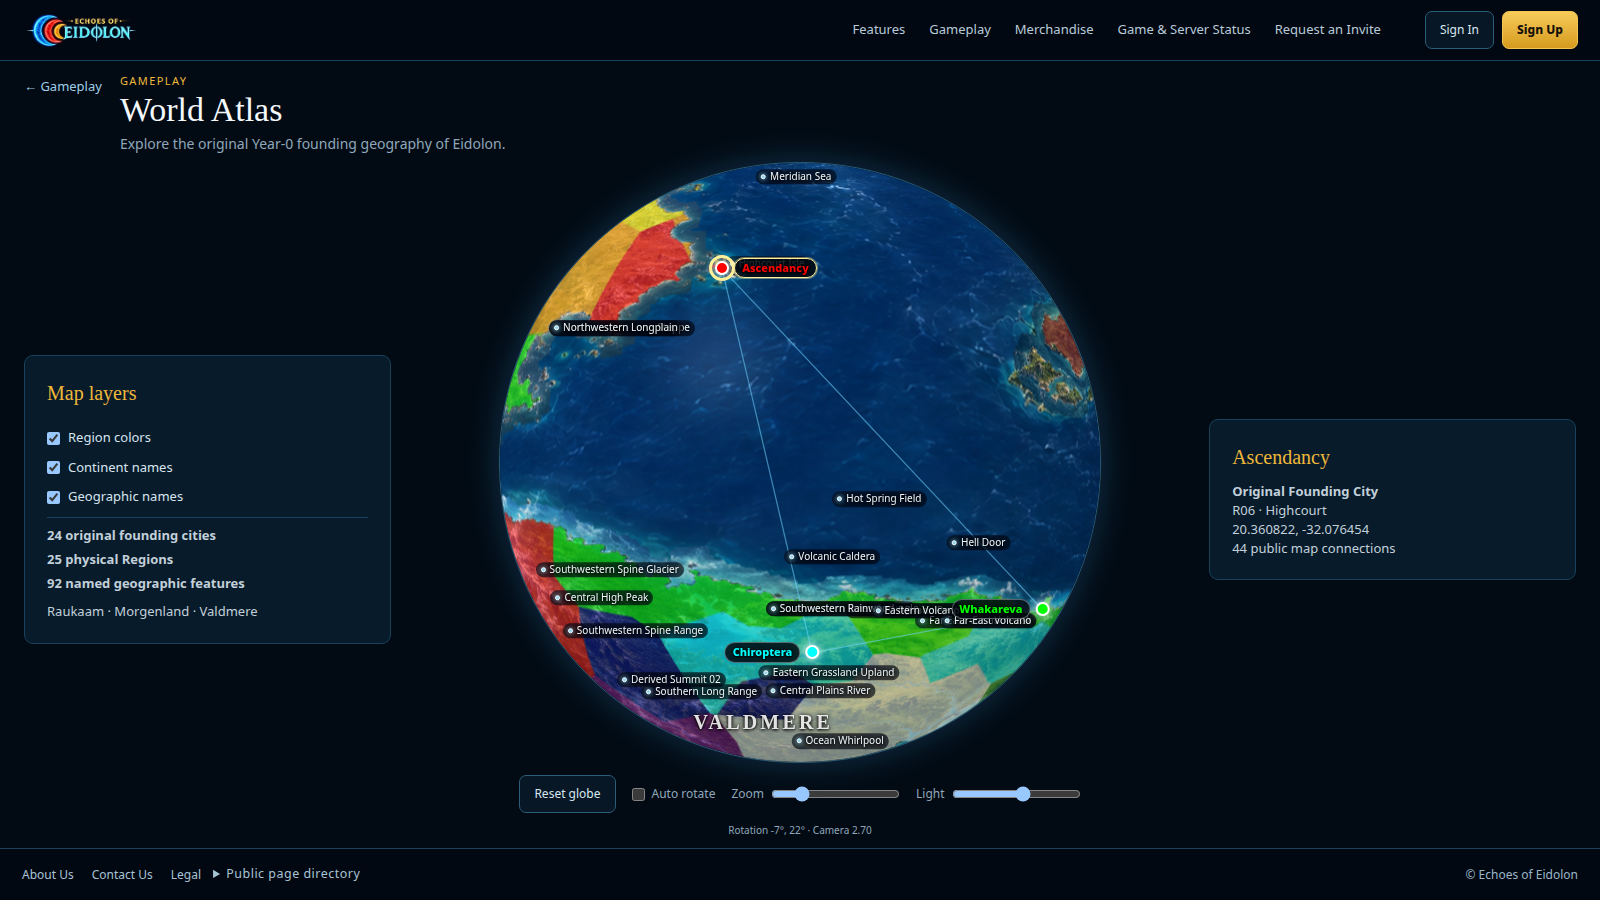
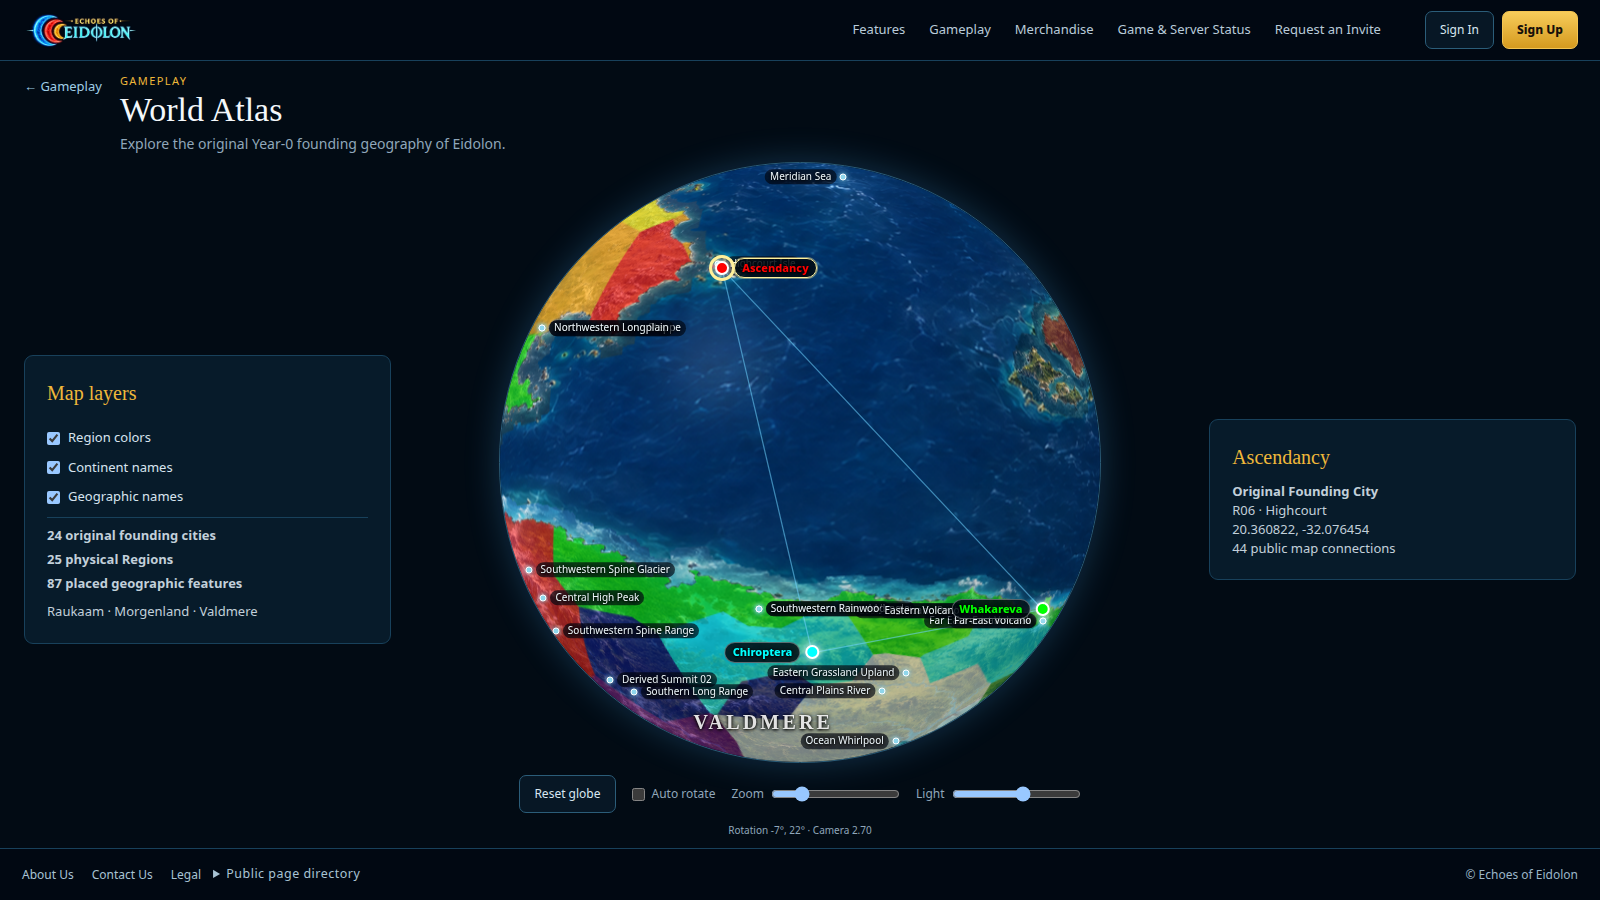
fix(atlas): correct geographic label placement
Release-Note: Geographic Atlas labels now point to their exact map coordinates, while contradicted placements remain hidden until approved.

Release-Audience: PLAYERS

diff --git a/apps/web/tests/e2e/public-world-atlas.spec.ts b/apps/web/tests/e2e/public-world-atlas.spec.ts
@@ -20,7 +20,8 @@ test("public World Atlas renders the 24 Year-0 founding cities on 25 colored Reg
   expect(projection.foundingCities).toHaveLength(24);
   expect(projection.regions).toContainEqual({ color: "#228B22", name: "Innerwood", regionId: "R10" });
   expect(projection.continents).toHaveLength(3);
-  expect(projection.geographicPoints).toHaveLength(92);
+  expect(projection.geographicPoints).toHaveLength(87);
+  expect(projection.geographicPoints.some(({ name }: { name: string }) => name === "Heavenfall")).toBe(false);
   expect(projection).not.toHaveProperty("pointsOfInterest");
 
   const regionColors = page.getByRole("checkbox", { name: "Region colors" });
@@ -30,7 +31,7 @@ test("public World Atlas renders the 24 Year-0 founding cities on 25 colored Reg
   await expect(continentNames).toBeChecked();
   await expect(geographicNames).toBeChecked();
   await expect(page.locator("[data-atlas-continent-label]")).toHaveCount(3);
-  await expect(page.locator("[data-atlas-geographic-point]")).toHaveCount(92);
+  await expect(page.locator("[data-atlas-geographic-point]")).toHaveCount(87);
   await expect(page.locator('[data-atlas-geographic-point][data-label="Northern Ocean"]')).toHaveCount(1);
   await expect(page.locator('[data-atlas-geographic-point][data-label="Meridian Sea"]')).toHaveCount(1);
 
@@ -43,11 +44,29 @@ test("public World Atlas renders the 24 Year-0 founding cities on 25 colored Reg
   await continentNames.check();
   expect(await page.locator("[data-atlas-continent-label]").evaluateAll((labels) => labels.some((label) => !(label as HTMLElement).hidden))).toBe(true);
   await geographicNames.uncheck();
-  await expect(page.locator('[data-atlas-geographic-point][data-layer-visible="false"]')).toHaveCount(92);
+  await expect(page.locator('[data-atlas-geographic-point][data-layer-visible="false"]')).toHaveCount(87);
   await geographicNames.check();
 
   const autoRotate = page.getByRole("checkbox", { name: "Auto rotate" });
   if (await autoRotate.isChecked()) await autoRotate.uncheck();
+  const geographicAnchorEvidence = await page.locator("[data-atlas-geographic-anchor]:visible").evaluateAll((anchors) => anchors.map((anchorElement) => {
+    const anchor = anchorElement as HTMLElement;
+    const element = anchor.closest<HTMLElement>("[data-atlas-geographic-point]");
+    if (!element) throw new Error("Geographic coordinate anchor has no annotation.");
+    const globeSurface = element.closest<HTMLElement>(".atlas-globe");
+    if (!globeSurface) throw new Error("Geographic annotation is outside the globe.");
+    const globeRectangle = globeSurface.getBoundingClientRect();
+    const anchorRectangle = anchor.getBoundingClientRect();
+    const expectedX = globeRectangle.left + globeRectangle.width * Number.parseFloat(element.style.left) / 100;
+    const expectedY = globeRectangle.top + globeRectangle.height * Number.parseFloat(element.style.top) / 100;
+    return {
+      error: Math.hypot(anchorRectangle.left + anchorRectangle.width / 2 - expectedX, anchorRectangle.top + anchorRectangle.height / 2 - expectedY),
+      side: element.dataset.labelSide,
+    };
+  }));
+  expect(geographicAnchorEvidence.length).toBeGreaterThan(0);
+  expect(Math.max(...geographicAnchorEvidence.map(({ error }) => error))).toBeLessThan(2);
+  expect(new Set(geographicAnchorEvidence.map(({ side }) => side)).size).toBeGreaterThan(1);
   const visibleCities = page.locator("button[data-atlas-founding-city]:visible");
   const first = visibleCities.first();
   const firstName = (await first.getAttribute("data-city-name"))!;

diff --git a/apps/web/src/data/atlas-geographic-points.ts b/apps/web/src/data/atlas-geographic-points.ts
@@ -11,6 +11,15 @@ export interface AtlasGeographicPoint {
   regionId: RegionId;
 }
 
+// These records declare a land placement while their authored coordinate is
+// ocean in both the Nimbus land mask and biome raster. Heavenfall also remains
+// owner-approval-required. Do not fabricate replacement coordinates.
+const contradictedPhysicalPlacementIds = new Set([
+  "POI-008", "POI-009", "POI-014", "POI-015", "POI-017",
+]);
+
+export const publicAtlasGeographicPointCount = 87;
+
 function validCoordinate(latitude: number, longitude: number): boolean {
   return Number.isFinite(latitude) && latitude >= -90 && latitude <= 90
     && Number.isFinite(longitude) && longitude >= -180 && longitude <= 180;
@@ -18,7 +27,7 @@ function validCoordinate(latitude: number, longitude: number): boolean {
 
 if (raw.records.length !== 92) throw new Error(`Atlas geographic label authority expected 92 records, received ${raw.records.length}.`);
 const seen = new Set<string>();
-export const atlasGeographicPoints = raw.records.map((record): AtlasGeographicPoint => {
+const materializedGeographicPoints = raw.records.map((record): AtlasGeographicPoint => {
   if (!/^POI-\d{3}$/.test(record.poiId) || seen.has(record.poiId)) throw new Error(`Atlas geographic label has a missing or duplicate ID: ${record.poiId}.`);
   if (!record.name.trim() || !record.category.trim()) throw new Error(`Atlas geographic label ${record.poiId} has a blank name or category.`);
   if (!(record.regionId in atlasRegionPalette)) throw new Error(`Atlas geographic label ${record.poiId} has an unknown Region.`);
@@ -26,5 +35,14 @@ export const atlasGeographicPoints = raw.records.map((record): AtlasGeographicPo
   seen.add(record.poiId);
   return { ...record, regionId: record.regionId as RegionId };
 });
+
+if ([...contradictedPhysicalPlacementIds].some((poiId) => !seen.has(poiId))) {
+  throw new Error("Atlas geographic label authority is missing an expected contradicted placement.");
+}
+
+export const atlasGeographicPoints = materializedGeographicPoints.filter(({ poiId }) => !contradictedPhysicalPlacementIds.has(poiId));
+if (atlasGeographicPoints.length !== publicAtlasGeographicPointCount) {
+  throw new Error(`Public Atlas expected ${publicAtlasGeographicPointCount} physically grounded geographic labels, received ${atlasGeographicPoints.length}.`);
+}
 
 export const atlasGeographicPointsSource = raw.source;

diff --git a/apps/web/tests/unit/atlas-geographic-points.test.ts b/apps/web/tests/unit/atlas-geographic-points.test.ts
@@ -3,9 +3,9 @@ import { describe, expect, it } from "vitest";
 import { atlasGeographicPoints, atlasGeographicPointsSource } from "../../src/data/atlas-geographic-points";
 
 describe("Atlas geographic labels", () => {
-  it("materializes all 92 simulator-authored geographic features with safe public fields", () => {
-    expect(atlasGeographicPoints).toHaveLength(92);
-    expect(new Set(atlasGeographicPoints.map(({ poiId }) => poiId))).toHaveProperty("size", 92);
+  it("materializes only the 87 physically grounded simulator-authored geographic features with safe public fields", () => {
+    expect(atlasGeographicPoints).toHaveLength(87);
+    expect(new Set(atlasGeographicPoints.map(({ poiId }) => poiId))).toHaveProperty("size", 87);
     expect(atlasGeographicPoints.every(({ latitude, longitude, name }) => name.trim().length > 0
       && Number.isFinite(latitude) && latitude >= -90 && latitude <= 90
       && Number.isFinite(longitude) && longitude >= -180 && longitude <= 180)).toBe(true);
@@ -14,6 +14,17 @@ describe("Atlas geographic labels", () => {
[1 lines of base64/hex data omitted]
     });
     expect(Object.keys(atlasGeographicPoints[0]!).sort()).toEqual(["category", "latitude", "longitude", "name", "poiId", "regionId"]);
+  });
+
+  it("does not present contradicted or unapproved placements as verified public geography", () => {
+    expect(atlasGeographicPoints.some(({ name }) => name === "Heavenfall")).toBe(false);
+    expect(atlasGeographicPoints.some(({ name }) => name === "Hell Door")).toBe(false);
+    expect(atlasGeographicPoints.some(({ name }) => name === "Polar Arcane Anomaly")).toBe(false);
+    expect(atlasGeographicPoints.some(({ name }) => name === "Volcanic Caldera")).toBe(false);
+    expect(atlasGeographicPoints.some(({ name }) => name === "Hot Spring Field")).toBe(false);
+    expect(atlasGeographicPoints).toContainEqual(expect.objectContaining({ name: "Highcourt Isle", poiId: "POI-080" }));
+    expect(atlasGeographicPoints).toContainEqual(expect.objectContaining({ name: "Northwestern Great Lake", poiId: "POI-040" }));
+    expect(atlasGeographicPoints).toContainEqual(expect.objectContaining({ name: "Northwestern Shadowwood", poiId: "POI-051" }));
   });
 
   it("includes named oceans, seas, mountain ranges, peaks, forests, and deserts", () => {

diff --git a/apps/web/src/styles.css b/apps/web/src/styles.css
@@ -425,8 +425,10 @@ button, input, select, textarea { font: inherit; }
 .atlas-globe-annotation[data-label-side="left"] { transform: translate(calc(-100% - 7px), -50%); }
 .atlas-globe-annotation--continent { z-index: 1; transform: translate(-50%, -50%); color: rgb(255 255 255 / 88%); font: 700 clamp(12px, 1.4vw, 20px) Georgia, serif; letter-spacing: .16em; text-transform: uppercase; }
 .atlas-globe-annotation--continent[data-label-side="left"] { transform: translate(-50%, -50%); }
-.atlas-globe-annotation--geographic { z-index: 2; display: inline-flex; align-items: center; gap: 4px; max-width: 150px; padding: 2px 5px; border-radius: 999px; background: rgb(1 8 18 / 68%); color: #eef7fb; font-size: clamp(8px, .72vw, 10px); line-height: 1.15; }
-.atlas-globe-annotation--geographic i { width: 5px; height: 5px; flex: 0 0 5px; border: 1px solid #fff; border-radius: 50%; background: #8fd6ec; box-shadow: 0 0 5px #8fd6ec; }
+.atlas-globe-annotation--geographic, .atlas-globe-annotation--geographic[data-label-side="left"] { z-index: 2; width: 0; height: 0; transform: none; color: #eef7fb; font-size: clamp(8px, .72vw, 10px); line-height: 1.15; }
+.atlas-globe-annotation--geographic i { width: 7px; height: 7px; position: absolute; inset: 0 auto auto 0; border: 1px solid #fff; border-radius: 50%; background: #8fd6ec; box-shadow: 0 0 5px #8fd6ec; transform: translate(-50%, -50%); }
+.atlas-globe-annotation--geographic > span { max-width: 150px; position: absolute; inset: 0 auto auto 0; overflow: hidden; padding: 2px 5px; border-radius: 999px; background: rgb(1 8 18 / 68%); text-overflow: ellipsis; transform: translate(7px, -50%); }
+.atlas-globe-annotation--geographic[data-label-side="left"] > span { transform: translate(calc(-100% - 7px), -50%); }
 
 .public-page--atlas { overflow: hidden !important; padding: 12px 24px 10px; }
 .public-world-atlas { width: 100%; height: 100%; min-height: 0; display: grid; grid-template-rows: auto minmax(0, 1fr); gap: 8px; }

diff --git a/apps/web/src/screens/public/PublicPage.tsx b/apps/web/src/screens/public/PublicPage.tsx
@@ -97,7 +97,7 @@ function PublicWorldAtlasPage() {
         <label className="check"><input checked={regionTintVisible} onChange={(event) => setRegionTintVisible(event.target.checked)} type="checkbox" /> Region colors</label>
         <label className="check"><input checked={continentLabelsVisible} onChange={(event) => setContinentLabelsVisible(event.target.checked)} type="checkbox" /> Continent names</label>
         <label className="check"><input checked={geographicLabelsVisible} onChange={(event) => setGeographicLabelsVisible(event.target.checked)} type="checkbox" /> Geographic names</label>
-        <div className="public-atlas-counts"><p><strong>{atlas.data?.foundingCities.length ?? 24} original founding cities</strong></p><p><strong>{atlas.data?.regions.length ?? 25} physical Regions</strong></p><p><strong>{atlas.data?.geographicPoints.length ?? 92} named geographic features</strong></p></div>
+        <div className="public-atlas-counts"><p><strong>{atlas.data?.foundingCities.length ?? 24} original founding cities</strong></p><p><strong>{atlas.data?.regions.length ?? 25} physical Regions</strong></p><p><strong>{atlas.data?.geographicPoints.length ?? 87} placed geographic features</strong></p></div>
         <p className="muted">Raukaam · Morgenland · Valdmere</p>
       </aside>
       <AtlasGlobe annotations={annotations} connections={atlas.data?.connections ?? []} continentLabelsVisible={continentLabelsVisible} geographicLabelsVisible={geographicLabelsVisible} labelMode="visible" locations={locations} onSelect={setSelectedId} regionMappings={atlas.data?.regionMappings ?? []} regionTintUrl={atlasTextureUrl("region-tint")} regionTintVisible={regionTintVisible} selectedId={selectedId} unavailableMessage={atlas.isPending ? "Loading public Atlas…" : undefined} />

diff --git a/apps/web/src/domain/public-atlas.ts b/apps/web/src/domain/public-atlas.ts
@@ -1,5 +1,5 @@
 import { assertAtlasRegionPresentation, atlasRegionColor } from "../content/atlas-region-presentation";
-import type { AtlasGeographicPoint } from "../data/atlas-geographic-points";
+import { publicAtlasGeographicPointCount, type AtlasGeographicPoint } from "../data/atlas-geographic-points";
 import type { LatticeId, RegionId } from "../generated/prisma/enums";
 import type { AtlasTopology } from "./atlas-topology";
 import { validateAtlasTopology } from "./atlas-topology";
@@ -107,7 +107,7 @@ export function projectPublicAtlas(authority: PublicAtlasAuthority, topologyInpu
     return { latitude: continent.labelLatitude, longitude: continent.labelLongitude, name };
   });
 
-  if (authority.geographicPoints.length !== 92) throw new Error(`Public Atlas geographic authority mismatch: expected 92 labels, received ${authority.geographicPoints.length}.`);
+  if (authority.geographicPoints.length !== publicAtlasGeographicPointCount) throw new Error(`Public Atlas geographic authority mismatch: expected ${publicAtlasGeographicPointCount} labels, received ${authority.geographicPoints.length}.`);
   const geographicIds = new Set<string>();
   const geographicPoints = [...authority.geographicPoints].sort((left, right) => left.poiId.localeCompare(right.poiId)).map((point) => {
     if (!/^POI-\d{3}$/.test(point.poiId) || geographicIds.has(point.poiId)) throw new Error(`Public Atlas duplicate geographic identity: ${point.poiId}.`);

diff --git a/apps/web/tests/unit/public-atlas.test.ts b/apps/web/tests/unit/public-atlas.test.ts
@@ -25,11 +25,11 @@ const continents = [
   { continentName: "Morgenland", labelLatitude: 30.236775, labelLongitude: 73.727394 },
   { continentName: "Valdmere", labelLatitude: -44.543435, labelLongitude: -31.900026 },
 ];
-const geographicPoints = Array.from({ length: 92 }, (_, index) => ({
-  category: index === 90 ? "OCEAN" : "PEAK",
+const geographicPoints = Array.from({ length: 87 }, (_, index) => ({
+  category: index === 86 ? "OCEAN" : "PEAK",
   latitude: 80 - index % 80 * 2,
   longitude: -170 + index % 85 * 4,
-  name: index === 90 ? "Northern Ocean" : `Geographic Feature ${index + 1}`,
+  name: index === 86 ? "Northern Ocean" : `Geographic Feature ${index + 1}`,
   poiId: `POI-${String(index + 1).padStart(3, "0")}`,
   regionId: regionIds[index % regionIds.length]!,
 }));
@@ -57,7 +57,7 @@ describe("public Atlas projection", () => {
       { latitude: 41.093565, longitude: -98.497755, name: "Raukaam" },
       { latitude: -44.543435, longitude: -31.900026, name: "Valdmere" },
     ]);
-    expect(result.geographicPoints).toHaveLength(92);
+    expect(result.geographicPoints).toHaveLength(87);
     expect(result).not.toHaveProperty("pointsOfInterest");
   });
 

diff --git a/apps/web/tests/unit/atlas-globe.test.tsx b/apps/web/tests/unit/atlas-globe.test.tsx
@@ -58,6 +58,9 @@ describe("AtlasGlobe", () => {
 
     expect(document.querySelectorAll("[data-atlas-continent-label]")).toHaveLength(1);
     expect(document.querySelectorAll("[data-atlas-geographic-point]")).toHaveLength(1);
+    const geographicPoint = document.querySelector("[data-atlas-geographic-point]");
+    expect(geographicPoint?.querySelector("[data-atlas-geographic-anchor]")).toBeInTheDocument();
+    expect(geographicPoint?.querySelector("[data-atlas-geographic-label]")).toHaveTextContent("Northern Ocean");
     expect(screen.queryByRole("button", { name: /Raukaam|Northern Ocean/ })).not.toBeInTheDocument();
     expect(screen.getByRole("application", { name: /Interactive Eidolon globe/ })).toHaveAttribute("data-region-colors", "visible");
 

diff --git a/apps/web/tests/integration/atlas-release.test.ts b/apps/web/tests/integration/atlas-release.test.ts
@@ -60,7 +60,8 @@ describe("canonical Atlas release", () => {
     ]);
     expect(publicAtlas.regions).toContainEqual({ color: "#228B22", name: "Innerwood", regionId: "R10" });
     expect(publicAtlas.continents.map(({ name }) => name)).toEqual(["Morgenland", "Raukaam", "Valdmere"]);
-    expect(publicAtlas.geographicPoints).toHaveLength(92);
+    expect(publicAtlas.geographicPoints).toHaveLength(87);
+    expect(publicAtlas.geographicPoints.some(({ name }) => name === "Heavenfall")).toBe(false);
     expect(publicAtlas.geographicPoints).toContainEqual({ category: "OCEAN", latitude: 73, longitude: 0, name: "Northern Ocean", poiId: "POI-091", regionId: "R15" });
 
     const created: unknown[] = [];

diff --git a/apps/web/src/components/AtlasGlobe.tsx b/apps/web/src/components/AtlasGlobe.tsx
@@ -453,7 +453,7 @@ export function AtlasGlobe({
             data-layer-visible={String(visible)}
             data-longitude={annotation.longitude}
             key={`${annotation.kind}-${annotation.id}`}
-          >{annotation.kind === "geographic" && <i aria-hidden />}<span>{annotation.label}</span></span>;
+          >{annotation.kind === "geographic" && <i aria-hidden data-atlas-geographic-anchor />}<span data-atlas-geographic-label={annotation.kind === "geographic" ? "" : undefined}>{annotation.label}</span></span>;
         })}
       </div>
       {loading && <p className="atlas-globe-message" role="status">Loading managed 3D globe texture…</p>}

diff --git a/docs/release-notes/0_3_0.md b/docs/release-notes/0_3_0.md
@@ -103,7 +103,7 @@ Routes: /gameplay/world-atlas
 
 The public globe now projects exactly the 24 canonical original founding cities instead of exposing the general Point of Interest catalog or silently appending a world-specific settlement state. Innerwood remains one of 25 geographically colored Regions but has no Year-0 city marker. The centered desktop globe dominates the available viewport without page scrollbars, while map controls and founding-city detail remain in balanced side rails.
 
-The managed Nimbus terrain is overlaid with authoritative Region boundaries using the requested 12-color, adjacency-safe presentation palette. Players can turn Region tinting off to inspect the underlying terrain, and black Regions retain readable white city-name text. Optional projected labels identify all three continents and 92 simulator-sourced geographic features—including oceans, seas, mountain ranges, peaks, forests, deserts, rivers, lakes, islands, bays, wetlands, and other named physical geography. Labels track globe rotation and disappear when occluded; founding-city controls continue to open city details without stealing globe drag gestures.
+The managed Nimbus terrain is overlaid with authoritative Region boundaries using the requested 12-color, adjacency-safe presentation palette. Players can turn Region tinting off to inspect the underlying terrain, and black Regions retain readable white city-name text. Optional projected labels identify all three continents and 87 physically placed simulator-sourced geographic features—including oceans, seas, mountain ranges, peaks, forests, deserts, rivers, lakes, islands, bays, wetlands, and other named physical geography. Each label's dot now remains fixed to the feature coordinate regardless of which side the text occupies, while five contradictory or unapproved placements remain withheld instead of appearing over the wrong terrain. Labels track globe rotation and disappear when occluded; founding-city controls continue to open city details without stealing globe drag gestures.
 
 ### Readable Campaign Planner movement
 Audience: OPERATORS
